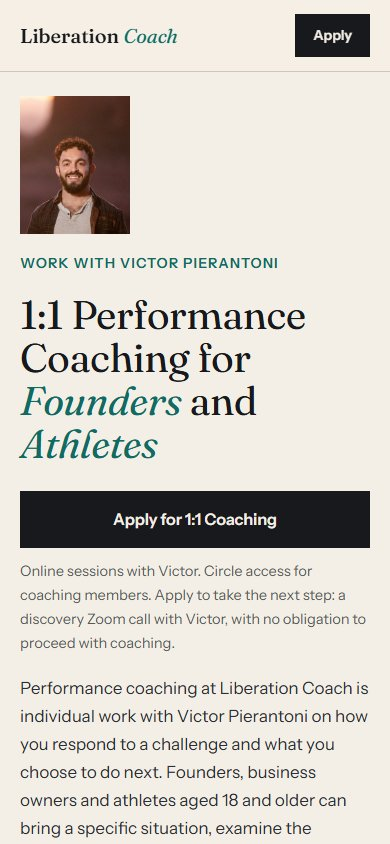
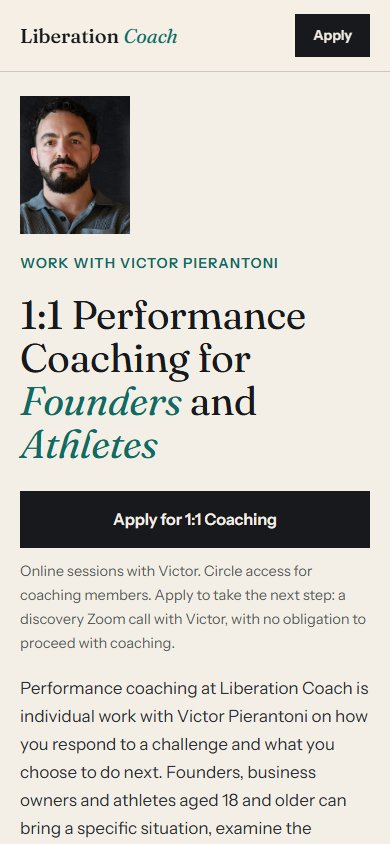
Add photos to the 3 homepage options
Victor photos from the current site (placeholders) and free-license Pexels scene photos; credits in assets/stock/CREDITS.md.

Changed region(s): [[0.0308, 0.0924, 0.3385, 0.2773]]

diff --git a/option-1/index.html b/option-1/index.html
@@ -82,7 +82,7 @@ footer nav{gap:18px;flex-wrap:wrap}footer nav a{color:#d9d4ca}
  .answers{grid-template-columns:1fr}.answers div,.answers div+div{padding:26px 0;border-left:0}.answers div+div{border-top:1px solid var(--rule)}
  .final{margin-top:56px}.final .in{padding:64px 20px}.btn{display:block;text-align:center}.btn.sm{display:inline-block}
  footer .in{padding:28px 20px}}
-@media (prefers-reduced-motion:reduce){*{transition:none!important;scroll-behavior:auto!important}}
+.rimg{width:100%;aspect-ratio:16/10;object-fit:cover;display:block;margin-bottom:24px}.wimg{width:100%;max-width:420px;aspect-ratio:4/5;object-fit:cover;display:block;margin-top:28px}.band-img{width:100%;height:380px;object-fit:cover;display:block}.vimg{width:100%;max-width:440px;aspect-ratio:4/3;object-fit:cover;display:block;margin-top:24px}@media (max-width:860px){.wimg,.vimg{max-width:100%;aspect-ratio:16/10}.band-img{height:220px}}@media (prefers-reduced-motion:reduce){*{transition:none!important;scroll-behavior:auto!important}}
 </style></head><body>
 <a class="skip" href="#main">Skip to content</a>
 <header><div class="hd"><a class="mark" href="#" data-planned-page title="Page not designed yet">Liberation <em>Coach</em></a>
@@ -98,16 +98,16 @@ footer nav{gap:18px;flex-wrap:wrap}footer nav a{color:#d9d4ca}
   <a class="btn" href="#" data-planned-page title="Page not designed yet">Apply for 1:1 Coaching</a>
   <p class="factline">Online sessions with Victor. Circle access for coaching members. Apply to take the next step: a discovery Zoom call with Victor, with no obligation to proceed with coaching.</p>
  </div>
- <figure class="portrait"><span class="ph">PLACEHOLDER PHOTO</span><img src="../assets/victor-portrait-400.jpg" alt="Victor Pierantoni, coach at Liberation Coach"><figcaption>Victor Pierantoni</figcaption></figure>
+ <figure class="portrait"><span class="ph">PLACEHOLDER PHOTO</span><img src="../assets/victor-polo-crop-300x600.jpg" alt="Victor Pierantoni, coach at Liberation Coach" style="object-position:50% 12%"><figcaption>Victor Pierantoni</figcaption></figure>
 </section>
 
 <section class="routes" aria-label="Who the coaching is for">
- <div class="route"><h3>For Founders and Business Owners</h3><p>Leading a business can put you between a decision and the people who need an answer. You might be postponing feedback to a colleague or deciding which responsibilities to hand over. Start with a situation in your business and the response you want to change.</p><a class="more" href="#" data-planned-page title="Page not designed yet">Explore founder coaching</a></div>
- <div class="route"><h3>For Adult Athletes</h3><p>You may trust a skill in practice and begin to doubt it in competition. Pressure can pull your concentration toward the last mistake or what might happen next. Start with a moment when your focus or confidence changed and what you noticed.</p><a class="more" href="#" data-planned-page title="Page not designed yet">Explore coaching for athletes</a></div>
+ <div class="route"><img class="rimg" src="../assets/stock/founder-thinking.jpg" alt="Business owner thinking through a decision at his laptop" loading="lazy"><h3>For Founders and Business Owners</h3><p>Leading a business can put you between a decision and the people who need an answer. You might be postponing feedback to a colleague or deciding which responsibilities to hand over. Start with a situation in your business and the response you want to change.</p><a class="more" href="#" data-planned-page title="Page not designed yet">Explore founder coaching</a></div>
+ <div class="route"><img class="rimg" src="../assets/stock/athlete-tennis-clay.jpg" alt="Tennis player on a clay court during a match" loading="lazy"><h3>For Adult Athletes</h3><p>You may trust a skill in practice and begin to doubt it in competition. Pressure can pull your concentration toward the last mistake or what might happen next. Start with a moment when your focus or confidence changed and what you noticed.</p><a class="more" href="#" data-planned-page title="Page not designed yet">Explore coaching for athletes</a></div>
 </section>
 
 <section class="work">
- <h2>Turn a Broad Concern Into Something You Can <em>Work On</em></h2>
+ <div><h2>Turn a Broad Concern Into Something You Can <em>Work On</em></h2><img class="wimg" src="../assets/stock/writing-notes.jpg" alt="Man writing notes while working through a question" loading="lazy"></div>
  <div>
   <p>You might call it a mental block: you keep second-guessing a decision or putting off a conversation. Start with that specific situation. <span class="q">What happened?</span> <span class="q">What are you assuming it means?</span> <span class="q">What do you need to find out before deciding?</span></p>
   <p>In performance coaching, you and Victor work together on those questions. Personal growth can mean a change you choose in your own life, such as asking a question you have avoided, checking an assumption or taking an action you chose. You can then review what you did and what you learned.</p>
@@ -126,7 +126,7 @@ footer nav{gap:18px;flex-wrap:wrap}footer nav a{color:#d9d4ca}
  </div>
 </div></section>
 
-<section class="emo"><div class="in">
+<section class="emo"><img class="band-img" src="../assets/stock/misty-lake.jpg" alt="Calm lake with morning mist" loading="lazy"><div class="in">
  <div class="rule" aria-hidden="true"></div>
  <h2>Reflection and Emotional Awareness</h2>
  <p>Victor's emotional-awareness teaching includes noticing bodily sensations associated with a feeling. His reflective questions examine the situation and your interpretation of it. The Method page explains these parts of his work in plain language.</p>
@@ -135,7 +135,7 @@ footer nav{gap:18px;flex-wrap:wrap}footer nav a{color:#d9d4ca}
 
 <div class="wrap">
 <section class="begin">
- <h2>A Conversation Is the Next Step</h2>
+ <div><h2>A Conversation Is the Next Step</h2><img class="vimg" src="../assets/stock/video-call.jpg" alt="Man on a video call at his laptop" loading="lazy"></div>
  <div>
   <ol class="steps">
    <li><div><h3>Apply</h3><p>Describe what you would like to work on.</p></div></li>
@@ -165,5 +165,5 @@ footer nav{gap:18px;flex-wrap:wrap}footer nav a{color:#d9d4ca}
 </main>
 <footer><div class="in"><span>&copy; 2026 Liberation Coach Inc.</span>
 <nav aria-label="Footer"><a href="#" data-planned-page title="Page not designed yet">FAQ</a><a href="#" data-planned-page title="Page not designed yet">Contact</a><a href="#" data-planned-page title="Page not designed yet">Privacy Policy</a><a href="#" data-planned-page title="Page not designed yet">Terms of Service</a><a href="#" data-planned-page title="Page not designed yet">Coaching Disclaimer</a><a href="#" data-planned-page title="Page not designed yet">Accessibility</a></nav></div></footer>
-<div class="note">Option 1: Ink and Paper. Design draft for review, homepage only. Photo is a placeholder. Menu and button links are not active yet.</div>
+<div class="note">Option 1: Ink and Paper. Design draft for review, homepage only. Victor photos are from the current site (placeholders); scene photos are free-license stock (Pexels). Menu and button links are not active yet.</div>
 </body></html>

diff --git a/option-3/index.html b/option-3/index.html
@@ -33,8 +33,8 @@ p{margin:0 0 14px}
 /* arena */
 .arena{display:grid;grid-template-columns:1fr 1fr;min-height:420px}
 .side{position:relative;padding:56px 48px;display:flex;flex-direction:column;justify-content:flex-end;overflow:hidden}
-.side.f{background:linear-gradient(200deg,var(--navy3),#13213a 55%,var(--navy))}
-.side.a{background:linear-gradient(160deg,#3b2420,#2a1d22 45%,var(--navy))}
+.side.f{background:linear-gradient(200deg,rgba(29,49,80,.82),rgba(15,26,43,.95) 70%),url(../assets/stock/founder-thinking.jpg) center/cover}
+.side.a{background:linear-gradient(160deg,rgba(59,36,32,.82),rgba(15,26,43,.95) 70%),url(../assets/stock/athlete-tennis-clay.jpg) center/cover}
 .side:before{content:"";position:absolute;inset:0;background:repeating-linear-gradient(90deg,#ffffff06 0 1px,transparent 1px 80px)}
 .side.a:before{background:repeating-linear-gradient(0deg,#ffffff07 0 1px,transparent 1px 60px)}
 .side>*{position:relative}.side p{color:#d6dce5;max-width:50ch}.side.a .more{border-color:var(--clay)}
@@ -52,7 +52,7 @@ p{margin:0 0 14px}
 .meet p{color:#2b3647;max-width:60ch}.meet p a{color:var(--clay-d);font-weight:500}.meet .more{color:var(--navy);border-color:var(--clay)}
 .meet .eyebrow{color:var(--clay-d)}
 /* emo */
-.emo{background:var(--navy2)}.emo .in{padding:96px 40px;display:grid;grid-template-columns:auto 1fr;gap:48px;align-items:start}
+.emo{background:linear-gradient(90deg,rgba(22,36,58,.97) 45%,rgba(22,36,58,.8)),url(../assets/stock/misty-lake.jpg) center/cover}.emo .in{padding:96px 40px;display:grid;grid-template-columns:auto 1fr;gap:48px;align-items:start}
 .emo .bar{width:6px;height:100%;min-height:120px;background:linear-gradient(var(--teal),var(--clay))}
 .emo p{color:var(--body);max-width:64ch}
 /* begin */
@@ -88,14 +88,14 @@ footer nav{gap:18px;flex-wrap:wrap}footer nav a{color:var(--body)}
  .begin .in{padding:56px 18px}.steps{grid-template-columns:1fr}
  .answers .in{padding:0 18px 56px}.qa{grid-template-columns:1fr}.qa div,.qa div+div{padding:24px 0}
  .final .in{padding:64px 18px}.final .btn{display:block}footer .in{padding:28px 18px}}
-@media (prefers-reduced-motion:reduce){*{transition:none!important;scroll-behavior:auto!important}}
+.wimg{width:100%;aspect-ratio:16/9;object-fit:cover;display:block;margin-top:28px;border-left:4px solid var(--clay)}.bhead{display:grid;grid-template-columns:1fr 360px;gap:40px;align-items:end}.vimg{width:100%;aspect-ratio:4/3;object-fit:cover;display:block;border-top:3px solid var(--teal)}@media (max-width:860px){.bhead{grid-template-columns:1fr;gap:16px}}@media (prefers-reduced-motion:reduce){*{transition:none!important;scroll-behavior:auto!important}}
 </style></head><body>
 <a class="skip" href="#main">Skip to content</a>
 <header><div class="hd"><a class="mark wide" href="#" data-planned-page title="Page not designed yet">Liberation <b>Coach</b></a>
 <nav aria-label="Main"><a href="#" data-planned-page title="Page not designed yet">Coaching</a><a href="#" data-planned-page title="Page not designed yet">Method</a><a href="#" data-planned-page title="Page not designed yet">For Founders</a><a href="#" data-planned-page title="Page not designed yet">For Athletes</a><a href="#" data-planned-page title="Page not designed yet">About</a><a class="btn sm" href="#" data-planned-page title="Page not designed yet">Apply</a></nav></div></header>
 <main id="main">
 <section class="top in" aria-labelledby="h1">
- <div class="portrait"><img src="../assets/victor-portrait-400.jpg" alt="Victor Pierantoni, coach at Liberation Coach"><span class="ph">PLACEHOLDER</span></div>
+ <div class="portrait"><img src="../assets/victor-polo-crop-300x600.jpg" alt="Victor Pierantoni, coach at Liberation Coach" style="object-position:50% 10%"><span class="ph">PLACEHOLDER</span></div>
  <div><p class="eyebrow">Work with Victor Pierantoni</p><h1 id="h1" class="wide">1:1 Performance Coaching for Founders and Athletes</h1><a class="btn mob" href="#" data-planned-page title="Page not designed yet">Apply for 1:1 Coaching</a>
  <p class="lede">Performance coaching at Liberation Coach is individual work with Victor Pierantoni on how you respond to a challenge and what you choose to do next. Founders, business owners and athletes aged 18 and older can bring a specific situation, examine the assumptions around it and consider a practical next step.</p>
  <p class="lede" style="color:var(--muted)">Bring a decision you keep revisiting, a conversation you are putting off or a moment of pressure you want to handle differently.</p></div>
@@ -114,6 +114,7 @@ footer nav{gap:18px;flex-wrap:wrap}footer nav a{color:var(--body)}
   <p>You might call it a mental block: you keep second-guessing a decision or putting off a conversation. Start with that specific situation. What happened? What are you assuming it means? What do you need to find out before deciding?</p>
   <p>In performance coaching, you and Victor work together on those questions. Personal growth can mean a change you choose in your own life, such as asking a question you have avoided, checking an assumption or taking an action you chose. You can then review what you did and what you learned.</p>
   <a class="more" href="#" data-planned-page title="Page not designed yet">See what a session can involve</a>
+  <img class="wimg" src="../assets/stock/writing-notes.jpg" alt="Man writing notes while working through a question" loading="lazy">
  </div>
 </div></section>
 
@@ -137,7 +138,7 @@ footer nav{gap:18px;flex-wrap:wrap}footer nav a{color:var(--body)}
 </div></section>
 
 <section class="begin"><div class="in">
- <h2 class="wide">A Conversation Is the Next Step</h2>
+ <div class="bhead"><h2 class="wide">A Conversation Is the Next Step</h2><img class="vimg" src="../assets/stock/video-call.jpg" alt="Man on a video call at his laptop" loading="lazy"></div>
  <ol class="steps">
   <li><h3 class="wide">Apply</h3><p>Describe what you would like to work on.</p></li>
   <li><h3 class="wide">Meet Victor on Zoom</h3><p>The next step is a discovery call with Victor to explore fit. There is no obligation to proceed with coaching.</p></li>
@@ -164,5 +165,5 @@ footer nav{gap:18px;flex-wrap:wrap}footer nav a{color:var(--body)}
 </main>
 <footer><div class="in"><span>&copy; 2026 Liberation Coach Inc.</span>
 <nav aria-label="Footer"><a href="#" data-planned-page title="Page not designed yet">FAQ</a><a href="#" data-planned-page title="Page not designed yet">Contact</a><a href="#" data-planned-page title="Page not designed yet">Privacy Policy</a><a href="#" data-planned-page title="Page not designed yet">Terms of Service</a><a href="#" data-planned-page title="Page not designed yet">Coaching Disclaimer</a><a href="#" data-planned-page title="Page not designed yet">Accessibility</a></nav></div></footer>
-<div class="note">Option 3: Two Arenas. Design draft for review, homepage only. Photo is a placeholder. Menu and button links are not active yet.</div>
+<div class="note">Option 3: Two Arenas. Design draft for review, homepage only. Victor photos are from the current site (placeholders); scene photos are free-license stock (Pexels). Menu and button links are not active yet.</div>
 </body></html>

diff --git a/option-2/index.html b/option-2/index.html
@@ -79,7 +79,7 @@ footer nav{display:flex;justify-content:center;flex-wrap:wrap;gap:12px 26px;marg
  .meet .in{padding:56px 20px}.meet .portrait{width:130px;height:130px}.emo{padding:56px 0}
  .begin{padding:56px 0}.steps{grid-template-columns:1fr;gap:30px}.answers{padding-bottom:56px}
  .final .in{padding:64px 20px}.btn{display:block}footer .in{padding:28px 20px}}
-@media (prefers-reduced-motion:reduce){*{transition:none!important;scroll-behavior:auto!important}}
+.rimg,.wimg,.band-img,.vimg{filter:grayscale(.55) contrast(1.02) sepia(.12);display:block;object-fit:cover}.rimg{width:100%;aspect-ratio:3/2;margin:0 auto 26px;outline:1px solid var(--rule);outline-offset:8px}.wimg{width:70%;max-width:340px;aspect-ratio:4/5;margin:32px 0 0 auto;outline:1px solid var(--rule);outline-offset:8px}.band-img{width:100%;height:320px;margin:0 0 40px}.vimg{width:100%;max-width:680px;aspect-ratio:21/9;margin:30px auto 0}@media (max-width:860px){.wimg{width:100%;max-width:100%;aspect-ratio:16/10;margin:24px 0 0}.band-img{height:200px}}@media (prefers-reduced-motion:reduce){*{transition:none!important;scroll-behavior:auto!important}}
 </style></head><body>
 <a class="skip" href="#main">Skip to content</a>
 <header><a class="mark" href="#" data-planned-page title="Page not designed yet">Liberation Coach</a>
@@ -97,12 +97,12 @@ footer nav{display:flex;justify-content:center;flex-wrap:wrap;gap:12px 26px;marg
 </section>
 
 <section class="cols" aria-label="Who the coaching is for">
- <div class="col"><h3>For Founders and Business Owners</h3><p>Leading a business can put you between a decision and the people who need an answer. You might be postponing feedback to a colleague or deciding which responsibilities to hand over. Start with a situation in your business and the response you want to change.</p><a class="more" href="#" data-planned-page title="Page not designed yet">Explore founder coaching</a></div>
- <div class="col"><h3>For Adult Athletes</h3><p>You may trust a skill in practice and begin to doubt it in competition. Pressure can pull your concentration toward the last mistake or what might happen next. Start with a moment when your focus or confidence changed and what you noticed.</p><a class="more" href="#" data-planned-page title="Page not designed yet">Explore coaching for athletes</a></div>
+ <div class="col"><img class="rimg" src="../assets/stock/founder-thinking.jpg" alt="Business owner thinking through a decision at his laptop" loading="lazy"><h3>For Founders and Business Owners</h3><p>Leading a business can put you between a decision and the people who need an answer. You might be postponing feedback to a colleague or deciding which responsibilities to hand over. Start with a situation in your business and the response you want to change.</p><a class="more" href="#" data-planned-page title="Page not designed yet">Explore founder coaching</a></div>
+ <div class="col"><img class="rimg" src="../assets/stock/athlete-tennis-clay.jpg" alt="Tennis player on a clay court during a match" loading="lazy"><h3>For Adult Athletes</h3><p>You may trust a skill in practice and begin to doubt it in competition. Pressure can pull your concentration toward the last mistake or what might happen next. Start with a moment when your focus or confidence changed and what you noticed.</p><a class="more" href="#" data-planned-page title="Page not designed yet">Explore coaching for athletes</a></div>
 </section>
 
 <section class="work">
- <h2>Turn a Broad Concern Into Something You Can <i>Work On</i></h2>
+ <div><h2>Turn a Broad Concern Into Something You Can <i>Work On</i></h2><img class="wimg" src="../assets/stock/writing-notes.jpg" alt="Man writing notes while working through a question" loading="lazy"></div>
  <div>
   <p>You might call it a mental block: you keep second-guessing a decision or putting off a conversation. Start with that specific situation. <em>What happened? What are you assuming it means? What do you need to find out before deciding?</em></p>
   <p>In performance coaching, you and Victor work together on those questions. Personal growth can mean a change you choose in your own life, such as asking a question you have avoided, checking an assumption or taking an action you chose. You can then review what you did and what you learned.</p>
@@ -121,6 +121,7 @@ footer nav{display:flex;justify-content:center;flex-wrap:wrap;gap:12px 26px;marg
 
 <div class="wrap">
 <section class="emo">
+ <img class="band-img" src="../assets/stock/misty-lake.jpg" alt="Calm lake with morning mist" loading="lazy">
  <div class="orn" aria-hidden="true">&middot; &middot; &middot;</div>
  <h2>Reflection and Emotional Awareness</h2>
  <p>Victor's emotional-awareness teaching includes noticing bodily sensations associated with a feeling. His reflective questions examine the situation and your interpretation of it. The Method page explains these parts of his work in plain language.</p>
@@ -129,6 +130,7 @@ footer nav{display:flex;justify-content:center;flex-wrap:wrap;gap:12px 26px;marg
 
 <section class="begin">
  <h2>A Conversation Is the Next Step</h2>
+ <img class="vimg" src="../assets/stock/video-call.jpg" alt="Man on a video call at his laptop" loading="lazy">
  <ol class="steps">
   <li><h3>Apply</h3><p>Describe what you would like to work on.</p></li>
   <li><h3>Meet Victor on Zoom</h3><p>The next step is a discovery call with Victor to explore fit. There is no obligation to proceed with coaching.</p></li>
@@ -155,5 +157,5 @@ footer nav{display:flex;justify-content:center;flex-wrap:wrap;gap:12px 26px;marg
 </div></section>
 </main>
 <footer><div class="in"><nav aria-label="Footer"><a href="#" data-planned-page title="Page not designed yet">FAQ</a><a href="#" data-planned-page title="Page not designed yet">Contact</a><a href="#" data-planned-page title="Page not designed yet">Privacy Policy</a><a href="#" data-planned-page title="Page not designed yet">Terms of Service</a><a href="#" data-planned-page title="Page not designed yet">Coaching Disclaimer</a><a href="#" data-planned-page title="Page not designed yet">Accessibility</a></nav>&copy; 2026 Liberation Coach Inc.</div></footer>
-<div class="note">Option 2: Stoic Stone. Design draft for review, homepage only. Photo is a placeholder. Menu and button links are not active yet.</div>
+<div class="note">Option 2: Stoic Stone. Design draft for review, homepage only. Victor photos are from the current site (placeholders); scene photos are free-license stock (Pexels). Menu and button links are not active yet.</div>
 </body></html>

diff --git a/index.html b/index.html
@@ -25,7 +25,7 @@ h2{font-size:21px;margin:0}.body p{margin:0;color:var(--muted);font-size:15px}
 </style></head><body><main class="wrap">
 <h1>Liberation Coach Homepage Options</h1>
 <p class="lead">Three design directions for the new liberation.coach homepage. All three use the same draft copy, so the only difference is the look and feel. Open each one on desktop and on a phone, then pick the direction to take forward.</p>
-<ul class="facts"><li>Homepage only</li><li>Same copy in all three</li><li>Photo is a placeholder</li><li>Menu links not active yet</li></ul>
+<ul class="facts"><li>Homepage only</li><li>Same copy in all three</li><li>Photos are placeholders</li><li>Menu links not active yet</li></ul>
 <div class="grid">
  <article class="card"><div class="shots"><img src="assets/option-1-desktop.jpg" alt="Option 1 desktop preview"><img src="assets/option-1-mobile.jpg" alt="Option 1 phone preview"></div>
   <div class="body"><h2>Option 1: Ink and Paper</h2><p>Editorial and calm. Warm paper tones, a classic serif with teal accents, and Victor's portrait anchoring the top of the page.</p>

diff --git a/assets/stock/CREDITS.md b/assets/stock/CREDITS.md
@@ -1,0 +1,10 @@
+# Stock photo sources (placeholders for mockups)
+All from Pexels (Pexels License: free to use, attribution not required). Downloaded Oct 27, 2026. Placeholders only; final images need owner approval.
+| File | Pexels photo | Used for |
+|---|---|---|
+| founder-thinking.jpg | https://www.pexels.com/photo/pensive-man-leaning-on-white-table-3782216/ | Founders route |
+| athlete-tennis-clay.jpg | https://www.pexels.com/photo/tennis-player-on-clay-court-in-buenos-aires-38503110/ | Athletes route |
+| writing-notes.jpg | https://www.pexels.com/photo/thoughtful-businessman-making-notes-in-planner-7129705/ | Section 3, what the work is for |
+| misty-lake.jpg | https://www.pexels.com/photo/misty-lake-at-sunrise-with-reflective-water-38239121/ | Section 5, emotional awareness |
+| video-call.jpg | https://www.pexels.com/photo/man-on-a-video-call-7245797/ | Section 7, how to begin (Zoom call) |
+Victor photos are from the live liberation.coach site (coach card portrait 400x400; crop of the video thumbnail 300x600). Originals still needed.
